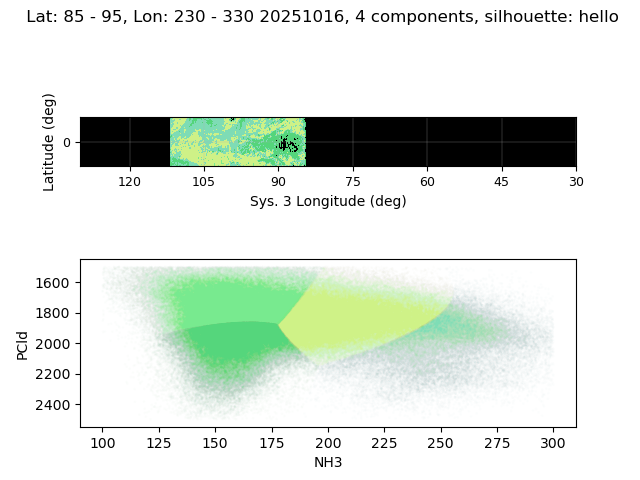
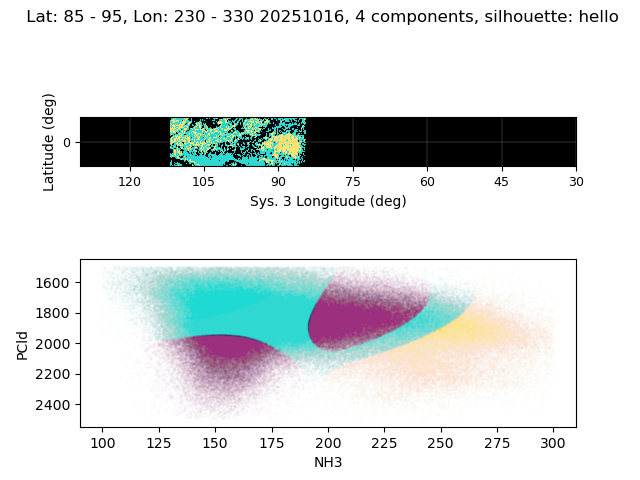
implement probabilistic clustering with threshold

Changed region(s): [[0.2188, 0.5625, 0.8438, 0.8438], [0.25, 0.2188, 0.5, 0.3438]]

diff --git a/scripts/processes.py b/scripts/processes.py
@@ -19,7 +19,7 @@ def output_cluster_map_and_plot(date, keywords, param_ranges,
     pred = CL.create_clusters(input_arr[:, [0,1]], cov_type, n_comp, config["soft_clustering"])
     sil_score = "hello"
     #str(round(silhouette_score(input_arr, pred), 3))
-    colors = np.random.rand(n_comp, 3)
+    colors = np.random.rand(n_comp, 4)
     cmap = ListedColormap(colors)
 
     fig, axis = pl.subplots(2, 1)
@@ -69,7 +69,7 @@ def create_map_comparison(date, keywords, param_ranges,
                             n_comp = 4, cov_type = "full",  cm_num = 3):
     [input_arr, subset_shape] = pre.get_input_array(keywords, param_ranges, latRng, lngRng, cm_num)
     print("clustering...")
-    pred = CL.create_clusters(input_arr[:, [0,1]], cov_type, n_comp)
+    pred = CL.create_clusters(input_arr[:, [0,1]], cov_type, n_comp, config["soft_clustering"])
     print("finished")
     #sil_score = str(round(silhouette_score(input_arr, pred), 3))
     sil_score = "hello"

diff --git a/scripts/clustering/clusters.py b/scripts/clustering/clusters.py
@@ -14,13 +14,25 @@ from sklearn.pipeline import Pipeline
 from sklearn.preprocessing import StandardScaler
 
 
-def create_clusters(pix_arr, cov_type, n_components):
+def create_clusters(pix_arr, cov_type, n_components, is_soft_clustering):
+    threshold = 0.7
     gmm_model = GMM(n_components=n_components, covariance_type=cov_type)
     pipe = Pipeline([('scaler', StandardScaler()), ('gmm', gmm_model)])
     print("fitting model...")
     pipe.fit(pix_arr)
-    predictions = pipe.predict(pix_arr)
-    print(predictions)
+    predictions = []
+    if(not is_soft_clustering):
+        predictions = pipe.predict(pix_arr)
+    if(is_soft_clustering):
+        pixel_probs = pipe.predict_proba(pix_arr)
+      
+        for pixel in pixel_probs:
+            index = next((i for i, x in enumerate(pixel) if x > threshold), - 1)
+            predictions.append(index)
+        
+    
+
+
     return predictions
 
 

diff --git a/scripts/plots/mapping.py b/scripts/plots/mapping.py
@@ -29,7 +29,9 @@ def plot_patch(patch, LatLims, LonLims, cmap, axis, v_min, v_max, title, cm_num,
         to plot a patch with appropriate longitude/latitude scales
     '''
     vn = v_min
-    vx = v_max
+    vx = v_max 
+    print(vn)
+    print(vx)
     #fdvactor here
     n = vx - vn
     create_axis(axis, [LatLims[0] - 90, 90 - LatLims[1]], LonLims,  cm_num)

diff --git a/config/config.py b/config/config.py
@@ -3,7 +3,7 @@ config = {
     'input': "data/HST/20251016UT",
     #'input': "data/L4/20251214UT",
     "output": "data/visualizations/HST/20251016UT",
-    "soft_clustering": False,
+    "soft_clustering": True,
     
 
 }
